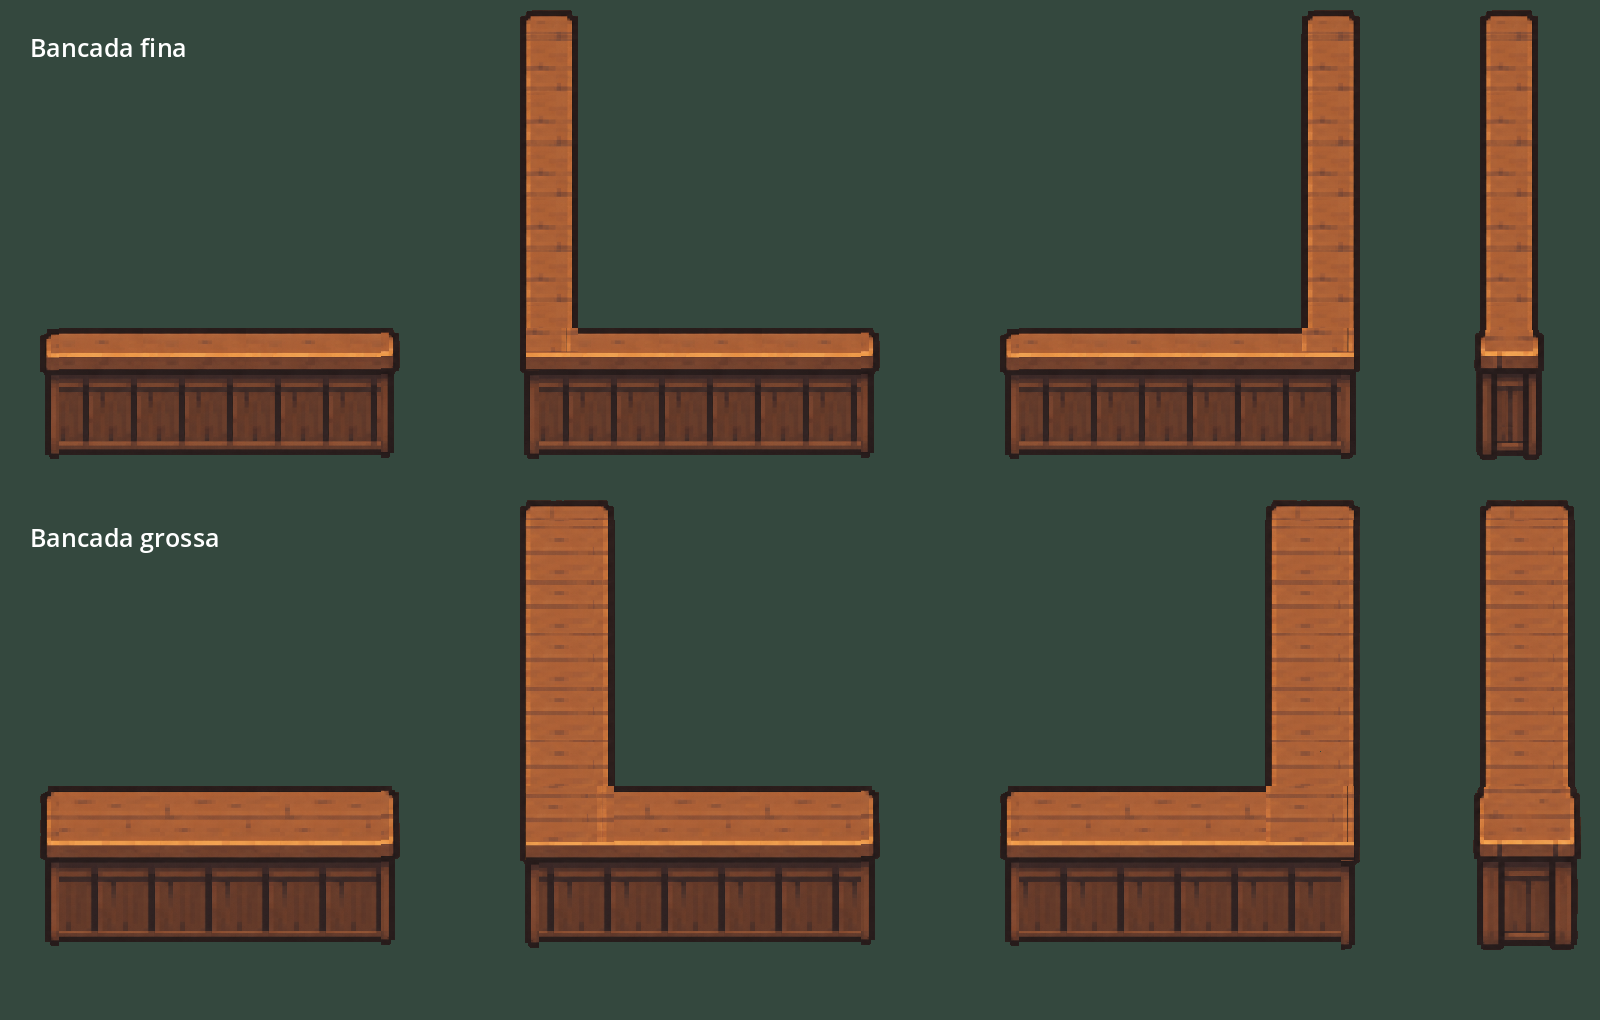
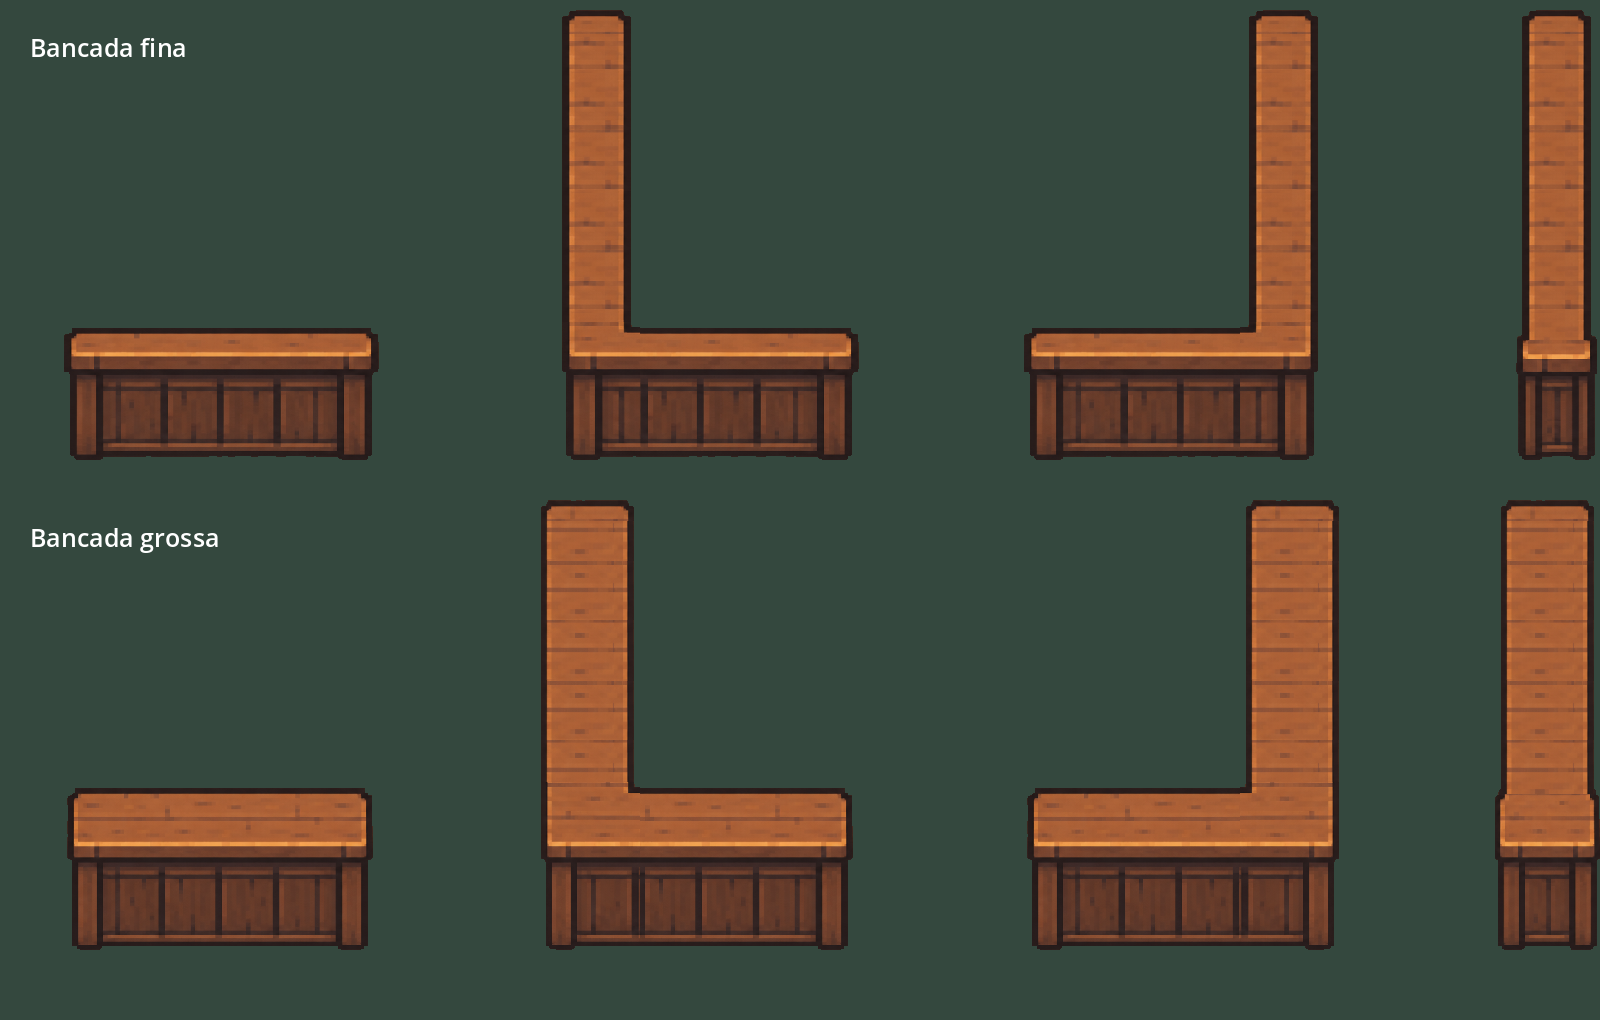
Align original Piskel pieces using measured sprite connection anchors

diff --git a/docs/bancadas-piskel-construcao.md b/docs/bancadas-piskel-construcao.md
@@ -5,23 +5,30 @@ em `godot/arte/modular/bancadas-piskel.png`. A implementação usa recortes do a
 não gera outra arte. O arquivo original tem 1536×1024 pixels e fundo transparente.
 SHA256: 44326e2adec2351337c2d3f8449bac3d111f8770bacc8aab1d8b05614a425f61.
 
-Cada uma das duas famílias (fina e grossa) tem oito peças compráveis: ponta
-esquerda, horizontal repetível, ponta direita, topo vertical, prolongamento
-vertical, base vertical e duas quinas. Cada módulo ocupa uma célula de 40×40,
-com frente de 30 de altura. A densidade dos recortes é compartilhada: 0,2 unidade por pixel do PNG.
-Os braços verticais medem 19,4 e 31,4 unidades; os tampos horizontais têm
-profundidade 14 e 24,6. Os recortes repetem ou são cortados para preencher a
-grade. Painéis, postes e bordas não são alargados para caber na célula.
-A frente mantém 30 de altura, com vigas de espessura constante e preenchimento
-da madeira entre elas. Margens transparentes são consideradas no alinhamento.
+Cada família (fina e grossa) tem oito peças compráveis: ponta esquerda,
+horizontal central, ponta direita, topo vertical, prolongamento vertical,
+base vertical e duas quinas. O catálogo e os salvamentos mantêm esses 16 tipos.
 
-Coloque pontas nas extremidades e peças centrais para alongar. Nas verticais,
-o topo inicia o trecho, o prolongamento aumenta o comprimento e a base fecha
-a frente. As quinas ligam as duas direções. O botão **Espelhar ↔** inverte a peça
-horizontalmente sem girar os painéis de lado; isso permite alinhar uma coluna
-vertical ao braço direito ou esquerdo da quina. As miniaturas usam a mesma cena
-e o mesmo atlas do mundo. As peças antigas continuam válidas em saves e não
-são vendidas como alternativas às novas.
+A versão 40 usa os desenhos completos de cada recorte, sem repetir o painel
+frontal ou criar outros veios de madeira. O trecho central mede 40 unidades;
+as pontas fechadas mantêm largura proporcional ao centro, com margem no lado
+externo da célula. A borda aberta permanece alinhada com a célula seguinte.
+As quinas medem 26 (fina) ou 33 (grossa), com portas verticais de 23 ou 31.
+Os pequenos braços horizontais são os recortes da spritesheet enviada.
+
+Os recortes copiados no Piskel têm deslocamentos diferentes. Os pontos de
+referência são a linha dourada e o início do painel frontal, medidos em cada
+peça; a montagem alinha essas duas linhas. O painel original é desenhado
+inteiro e mantém 30 de altura. As bases e os capitéis usam seus próprios
+recortes. Apenas o prolongamento fornecido é cortado na medida necessária
+para conectar o topo, a vertical e a quina/base. Não há faixas de madeira
+ou contornos inventados. O canal alpha do usuário é preservado.
+
+Os pontos de conexão e limites das imagens são arredondados para a grade de
+pixels. A coluna vertical é posicionada sobre a porta da quina correspondente.
+**Espelhar ↔** seleciona a ponta/quina oposta fornecida e alinha a coluna ao
+outro lado; a câmera e os painéis continuam em pé. As miniaturas usam as mesmas
+cenas do mundo. Peças antigas continuam válidas em saves, sem venda alternativa.
 
 O catálogo agora mostra uma seção por vez, com botões de seleção e duas colunas:
 
@@ -39,32 +46,14 @@ Bancadas vazias aceitam apoio de panela; não podem ser guardadas com itens apoi
 As estações de empratamento continuam limitadas às superfícies do tamanho da mesa
 de preparo, com pratos e ingredientes na escala física já aprovada.
 
-Validação: 43 suítes de regressão aprovadas. `BancadasPiskelUI` cobre as 16 compras,
-retorno à seção, atlas correto, espelhamento, ocupação, save/load, apoio/retirada
-de panela, bloqueio de remoção ocupada e reembolso. `CatalogoSecoesUI` cobre os
-botões de seção, filtros, duas colunas, compra de decorações e três proporções
-de tela. Os botões de categoria e o painel de posicionamento foram conferidos
-novamente após o ajuste visual, e a montagem reta e as duas quinas foram
-capturadas com o renderizador Compatibility.
+A base de construção passou pelas 43 suítes da integração inicial. Após a
+remontagem da versão 40 passaram `BancadasPiskelUI`, `CatalogoSecoesUI`,
+`CenaNativa`, `ApoioPanelasUI` e `DesempenhoGarcomUI`. A captura do renderizador
+Compatibility também verifica a cobertura de alpha nas emendas horizontais,
+verticais e entradas das quinas, além da montagem com base vertical. O teste
+considera a margem natural dos acabamentos fechados e examina as bordas abertas.
 
-Capturas: `docs/arte/bancadas-piskel-montadas.png` e
-`docs/arte/catalogo-construcao-secoes.png`.
-Android 0.21.2-godot.39 (21239), ZIP e assinatura v2/v3 verificados.
+Captura atual: `docs/arte/bancadas-piskel-montadas.png`.
+A tentativa anterior está em `docs/arte/bancadas-piskel-tentativa39.png`.
+Android 0.21.2-godot.40 (21240), ZIP e assinatura v2/v3 verificados.
 Sem teste em aparelho Android físico nesta execução.
-
-## Correção de recortes e montagem da versão 39
-
-A madeira usa uma origem em coordenadas do mundo. A textura e o ritmo dos
-painéis continuam entre células, em vez de recomeçar e esticar em cada peça.
-Espelhar troca pontas/quinas e o lado da coluna, mantendo o veio da madeira
-na orientação da câmera. Topos arredondados são desenhados sobre transparência;
-as junções não recebem uma segunda moldura nem uma faixa transparente. As bases
-verticais usam as dimensões nativas do recorte e fecham a frente da coluna.
-O PNG do usuário continua com o mesmo hash registrado acima.
-
-Após a correção passaram `BancadasPiskelUI`, `CatalogoSecoesUI`,
-`DesempenhoGarcomUI`, `ApoioPanelasUI` e `TelaExpandidaUI`. A captura gráfica de
-`BancadasPiskelUI` também verifica pixels para detectar buracos nas três
-montagens horizontais, nas duas quinas e na união da vertical com sua base.
-A imagem de comparação agora inclui uma coluna vertical terminada para cada
-família. A captura anterior está em `docs/arte/bancadas-piskel-antes-correcao.png`.
